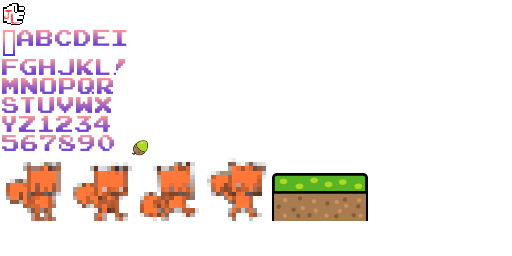
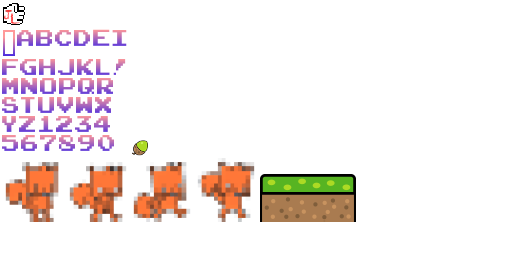
Collision with the map working ok

Changed region(s): [[0.0, 0.625, 0.7188, 0.875]]

diff --git a/core/src/com/mygdx/game/GameScreen.java b/core/src/com/mygdx/game/GameScreen.java
@@ -1,25 +1,30 @@
 package com.mygdx.game;
 
-import com.badlogic.gdx.Game;
 import com.badlogic.gdx.Gdx;
 import com.badlogic.gdx.ScreenAdapter;
-import com.badlogic.gdx.graphics.*;
+import com.badlogic.gdx.graphics.Color;
+import com.badlogic.gdx.graphics.GL20;
+import com.badlogic.gdx.graphics.OrthographicCamera;
 import com.badlogic.gdx.graphics.g2d.BitmapFont;
 import com.badlogic.gdx.graphics.g2d.GlyphLayout;
 import com.badlogic.gdx.graphics.g2d.SpriteBatch;
 import com.badlogic.gdx.graphics.g2d.TextureAtlas;
 import com.badlogic.gdx.graphics.glutils.ShapeRenderer;
 import com.badlogic.gdx.maps.tiled.TiledMap;
-import com.badlogic.gdx.maps.tiled.renderers.OrthoCachedTiledMapRenderer;
+import com.badlogic.gdx.maps.tiled.TiledMapTileLayer;
 import com.badlogic.gdx.maps.tiled.renderers.OrthogonalTiledMapRenderer;
+import com.badlogic.gdx.math.Intersector;
+import com.badlogic.gdx.math.MathUtils;
+import com.badlogic.gdx.math.Rectangle;
+import com.badlogic.gdx.utils.Array;
 import com.badlogic.gdx.utils.viewport.FitViewport;
 import com.badlogic.gdx.utils.viewport.Viewport;
-import com.mygdx.game.PunchyFist;
-import com.sun.xml.internal.fastinfoset.util.CharArrayIntMap;
-import com.sun.xml.internal.ws.message.saaj.SAAJHeader;
+
+import java.util.Iterator;
+
 
 public class GameScreen extends ScreenAdapter {
-    private static final float WORLD_WITH = 1232;
+    private static final float WORLD_WITH = 1280;
     private static final float WORLD_HEIGHT = 448;
     private ShapeRenderer shapeRenderer;
     private Viewport viewport;
@@ -37,7 +42,7 @@ public class GameScreen extends ScreenAdapter {
 
     private BitmapFont bitmapFont;
     private GlyphLayout glyphLayout;
-
+    private int CELL_SIZE = 16;
 
     public GameScreen(PunchyFist punchyFist) {
         this.punchyFist = punchyFist;
@@ -51,10 +56,6 @@ public class GameScreen extends ScreenAdapter {
     @Override
     public void show() {
         camera = new OrthographicCamera();
-        //
-        //
-        // camera.position.set(WORLD_WITH / 2, WORLD_HEIGHT / 2, 0);
-        //camera.update();
         viewport = new FitViewport(WORLD_WITH, WORLD_HEIGHT, camera);
         viewport.apply(true);
         shapeRenderer = new ShapeRenderer();
@@ -62,14 +63,10 @@ public class GameScreen extends ScreenAdapter {
         tileMap = punchyFist.getAssetManager().get("map.tmx");
         orthogonalTiledMapRenderer = new OrthogonalTiledMapRenderer(tileMap, batch);
         orthogonalTiledMapRenderer.setView(camera);
-        //resize((int)WORLD_WITH, (int)WORLD_HEIGHT);
-
         TextureAtlas textureAtlas = punchyFist.getAssetManager().get("punchy_fist_assets.atlas");
 
         punchy = new Punchy(textureAtlas.findRegion("punchy"));
         fist = new Fist(textureAtlas.findRegion("fist"));
-
-       // bitmapFont = new BitmapFont();
         bitmapFont = punchyFist.getAssetManager().get("score.fnt");
         glyphLayout = new GlyphLayout();
     }
@@ -94,6 +91,7 @@ public class GameScreen extends ScreenAdapter {
         updateScore();
         //stopFistPunch();
         stopPunchyLeavingTheScreen();
+        handlePunchyCollision();
     }
 
     private void drawScore() {
@@ -158,6 +156,91 @@ public class GameScreen extends ScreenAdapter {
         }
 
 
+    }
+
+    private Array<CollisionCell> punchyCoversWhat() {
+        float x = punchy.getX();
+        float y = punchy.getY();
+        Array<CollisionCell> cellsCovered = new Array<CollisionCell>();
+        float cellX = x / CELL_SIZE;
+        float cellY = y / CELL_SIZE;
+
+        int bottomLeftCellX = MathUtils.floor(cellX);
+        int bottomLeftCellY = MathUtils.floor(cellY);
+
+        TiledMapTileLayer tiledMapTileLayer = (TiledMapTileLayer) tileMap.getLayers().get(0);
+
+        cellsCovered.add(new CollisionCell(tiledMapTileLayer.getCell(bottomLeftCellX, bottomLeftCellY), bottomLeftCellX, bottomLeftCellY));
+
+        if (cellX % 1 != 0 && cellY % 1 != 0) {
+            int topRightCellX = bottomLeftCellX + 1;
+            int topRightCellY = bottomLeftCellY + 1;
+            cellsCovered.add(new CollisionCell(tiledMapTileLayer.getCell(topRightCellX, topRightCellY), topRightCellX, topRightCellY));
+        }
+
+        if (cellX % 1 != 0) {
+            int bottomRightCellX = bottomLeftCellX + 1;
+            int bottomRightCellY = bottomLeftCellY;
+            cellsCovered.add(new CollisionCell(tiledMapTileLayer.getCell(bottomRightCellX, bottomRightCellY), bottomRightCellX, bottomLeftCellY));
+        }
+
+        if (cellY % 1 != 0) {
+            int topLeftCellX = bottomLeftCellX;
+            int topLeftCellY = bottomLeftCellY + 1;
+            cellsCovered.add(new CollisionCell(tiledMapTileLayer.getCell(topLeftCellX, topLeftCellY), topLeftCellX, topLeftCellY));
+        }
+
+        return cellsCovered;
+
+    }
+
+    private Array<CollisionCell> filterOutNonTiledCells(Array<CollisionCell> cells) {
+        for (Iterator<CollisionCell> iter = cells.iterator(); iter.hasNext(); ) {
+            CollisionCell collisionCell = iter.next();
+            if (collisionCell.isEmpty()) {
+                iter.remove();
+            }
+        }
+        return cells;
+    }
+
+
+    private void handlePunchyCollision() {
+        Array<CollisionCell> punchyCells = punchyCoversWhat();
+        punchyCells = filterOutNonTiledCells(punchyCells);
+        for (CollisionCell cell : punchyCells) {
+            float cellLevelX = cell.cellX * CELL_SIZE;
+            float cellLevelY = cell.cellY * CELL_SIZE;
+            Rectangle intersection = new Rectangle();
+            Intersector.intersectRectangles(punchy.getCollisionRectangle(), new Rectangle(cellLevelX, cellLevelY, CELL_SIZE, CELL_SIZE), intersection);
+            if (intersection.getHeight() < intersection.getWidth()) {
+                punchy.setPosition(punchy.getX(), intersection.getY() + intersection.getHeight());
+                punchy.landed();
+            } else if (intersection.getWidth() < intersection.getHeight()) {
+                if (intersection.getX() == punchy.getX()) {
+                    punchy.setPosition(intersection.getX() , punchy.getY());
+                }
+                if (intersection.getX() > punchy.getX()) {
+                    punchy.setPosition(intersection.getX() - Punchy.WIDTH, punchy.getY());
+                }
+            }
+        }
+    }
+
+    private class CollisionCell {
+        private final TiledMapTileLayer.Cell cell;
+        private final int cellX;
+        private final int cellY;
+
+        public CollisionCell(TiledMapTileLayer.Cell cell, int cellX, int cellY) {
+            this.cell = cell;
+            this.cellX = cellX;
+            this.cellY = cellY;
+        }
+
+        public boolean isEmpty() {
+            return cell == null;
+        }
     }
 
 }

diff --git a/core/src/com/mygdx/game/StartScreen.java b/core/src/com/mygdx/game/StartScreen.java
@@ -15,7 +15,7 @@ import com.badlogic.gdx.utils.Align;
 import com.badlogic.gdx.utils.viewport.FitViewport;
 
 public class StartScreen extends ScreenAdapter {
-    private static final float WORLD_WITH = 1232;
+    private static final float WORLD_WITH = 1280;
     private static final float WORLD_HEIGHT = 448;
 
     private Stage stage;
@@ -50,6 +50,7 @@ public class StartScreen extends ScreenAdapter {
             public void tap(InputEvent event, float x, float y, int count, int button) {
                 super.tap(event, x, y, count, button);
                 game.setScreen(new LoadingScreen(game));
+                dispose();
             }
         });
 
@@ -73,5 +74,12 @@ public class StartScreen extends ScreenAdapter {
         stage.draw();
     }
 
+    public void dispose(){
+        stage.dispose();
+        backgroundTexture.dispose();
+        playPressTexture.dispose();
+        playTexture.dispose();
+        titleTexture.dispose();
+    }
 
 }

diff --git a/core/src/com/mygdx/game/Fist.java b/core/src/com/mygdx/game/Fist.java
@@ -14,7 +14,9 @@ public class Fist {
     private static float MIN_Y_POSITION = 0;
     public static final int WIDTH = 24;
     public static final int HEIGHT = 24;
-    public static final float OFFSET = 32;
+    public static final float YOFFSET = 16;
+    public static final float XOFFSET = 40;
+
     private static TextureRegion fist;
 
     private final Rectangle collisionRectangle = new Rectangle(0, 0, WIDTH, HEIGHT);
@@ -40,8 +42,8 @@ public class Fist {
     }
 
     public void setPosition(Punchy punchy){
-        MIN_X_POSITION = punchy.getX() + OFFSET;
-        this.y = punchy.getY() + OFFSET;
+        MIN_X_POSITION = punchy.getX() + XOFFSET;
+        this.y = punchy.getY() + YOFFSET;
     }
 
     public boolean isPunching(){

diff --git a/core/src/com/mygdx/game/Punchy.java b/core/src/com/mygdx/game/Punchy.java
@@ -14,8 +14,8 @@ import com.badlogic.gdx.math.Rectangle;
 public class Punchy {
     private static final float MAX_X_SPEED = 6;
     private static final float MAX_Y_SPEED = 6;
-    public static final int WIDTH = 67;
-    public static final int HEIGHT = 63;
+    public static final int WIDTH = 64;
+    public static final int HEIGHT = 64;
 
     private final Rectangle collisionRectangle = new Rectangle(0, 0, WIDTH, HEIGHT);
 
@@ -47,6 +47,8 @@ public class Punchy {
 
 
     }
+
+    public Rectangle getCollisionRectangle(){return collisionRectangle;}
 
     public void draw(Batch batch) {
 

diff --git a/core/src/com/mygdx/game/LoadingScreen.java b/core/src/com/mygdx/game/LoadingScreen.java
@@ -14,7 +14,7 @@ import com.badlogic.gdx.utils.viewport.FitViewport;
 import com.badlogic.gdx.utils.viewport.Viewport;
 
 public class LoadingScreen extends ScreenAdapter {
-    private static final float WORLD_WIDTH = 1232;
+    private static final float WORLD_WIDTH = 1280;
     private static final float WORLD_HEIGHT = 448;
     private static final float PROGRESS_BAR_WIDTH = WORLD_WIDTH * 0.75f;
     private static final float PROGRESS_BAR_HEIGHT = WORLD_HEIGHT * 0.75f;

diff --git a/desktop/src/com/mygdx/game/desktop/DesktopLauncher.java b/desktop/src/com/mygdx/game/desktop/DesktopLauncher.java
@@ -9,7 +9,7 @@ public class DesktopLauncher {
 	public static void main (String[] arg) {
 		LwjglApplicationConfiguration config = new LwjglApplicationConfiguration();
 		config.height = 448;
-		config.width = (int)(448 * 2.75);  // ultra panavision
+		config.width = 1280;  // ultra panavision
 		TexturePacker.process("../assets/sprites", "../assets", "punchy_fist_assets");
 
 		new LwjglApplication(new PunchyFist(), config);
